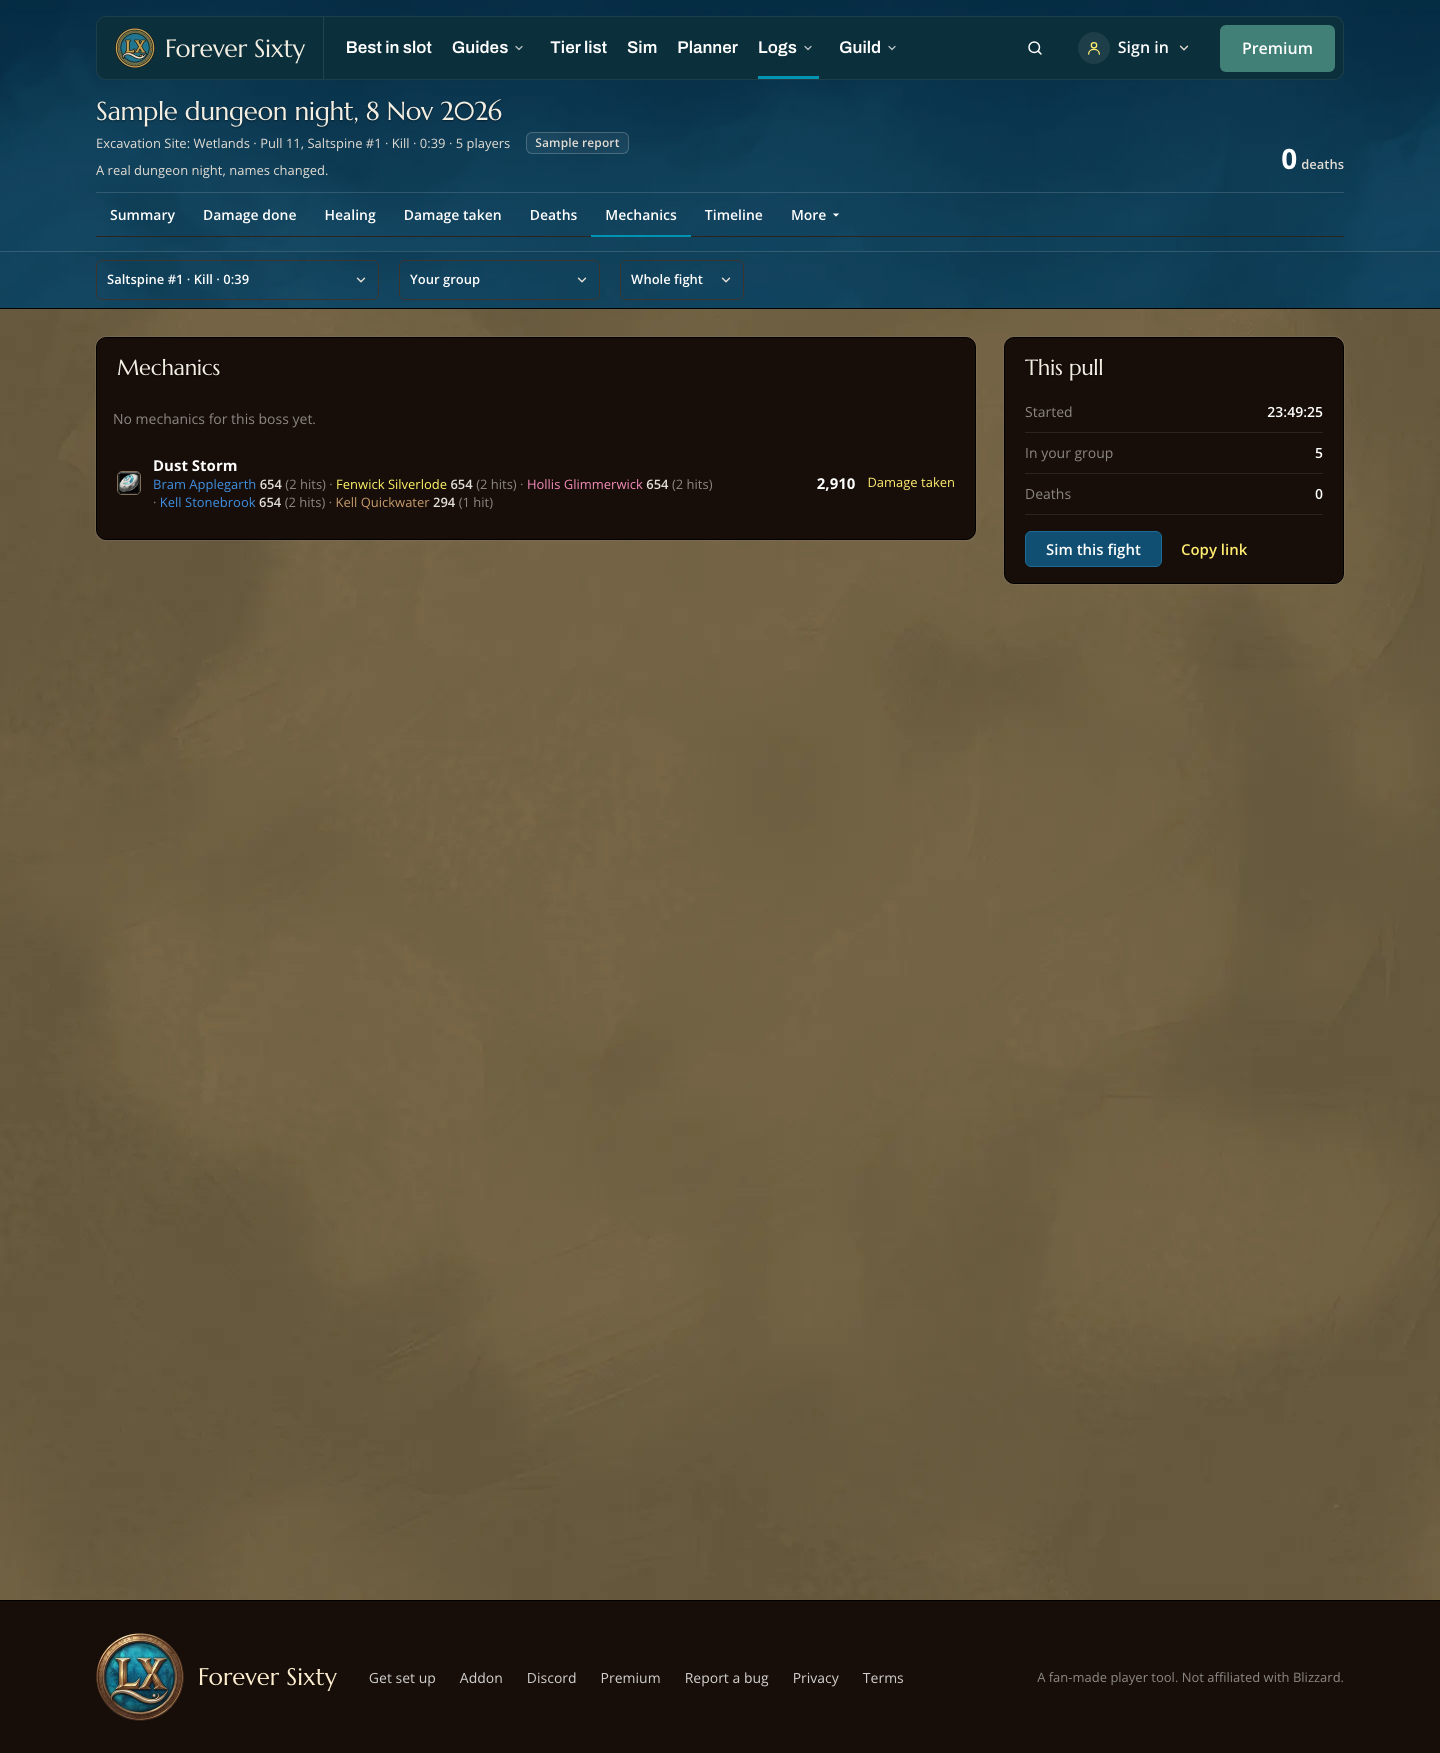
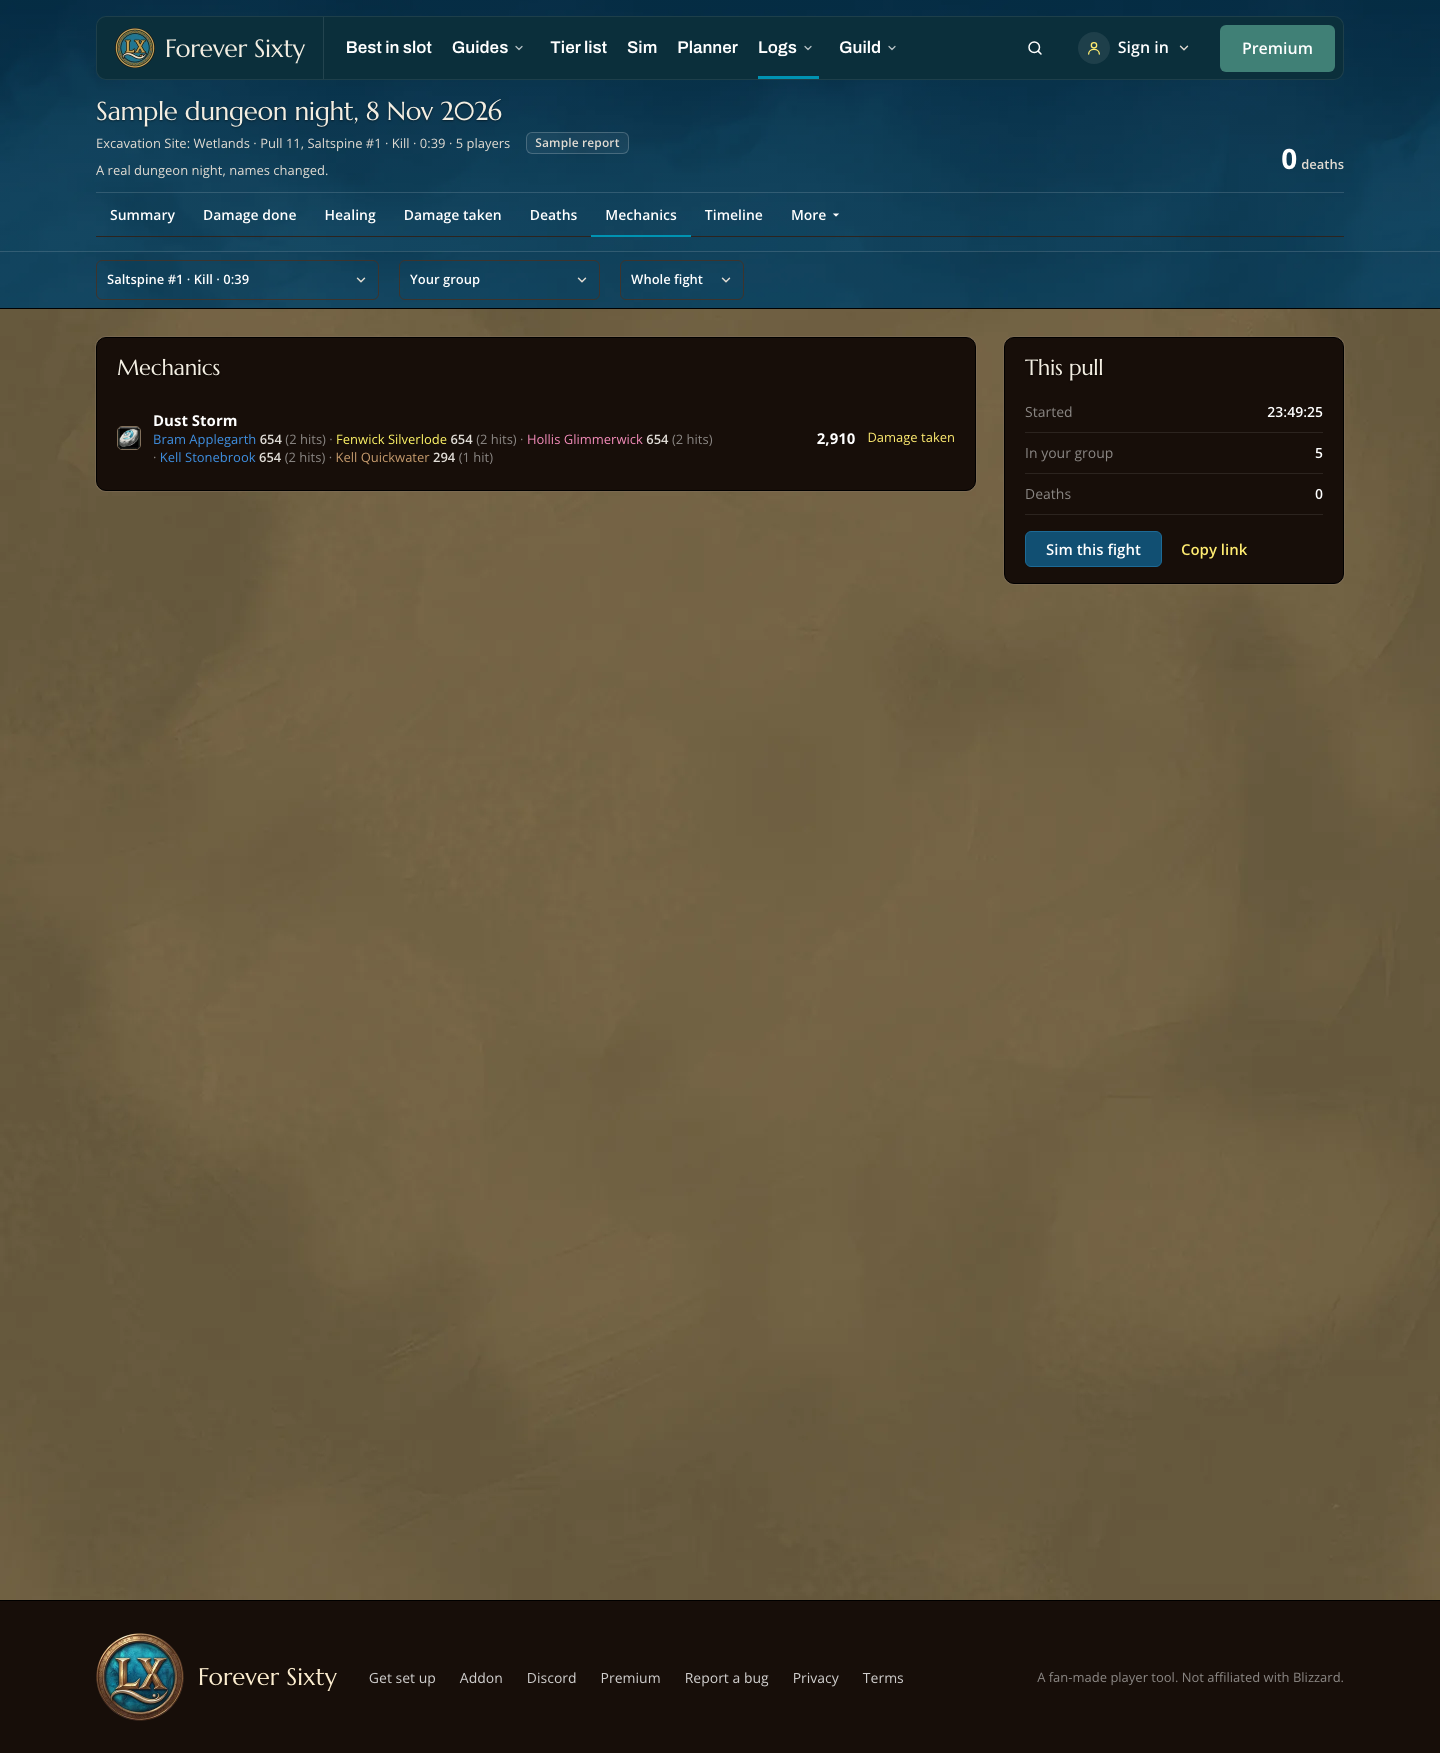
fix(web): round 2 shoulds made musts: Mechanics lists the boss abilities in place of its empty line, the total wraps under them on a phone, timeline names whole at 390
Claude-Session: https://claude.ai/code/session_01Wrtayzxz2jvhjren4pWihn

Changed region(s): [[0.0625, 0.2156, 0.6875, 0.308]]

diff --git a/web/src/components/report/MechanicsMode.svelte b/web/src/components/report/MechanicsMode.svelte
@@ -344,51 +344,49 @@
         )}
       {:else if !block.table_found && nightMode}
         {@render line('No boss of the night has a table yet.', 'mechanics-no-table')}
-      {:else if !block.table_found}
+      {:else if !block.table_found && bossAbilities.length === 0}
         <p class="text-muted px-4 py-4 text-[14px]" data-testid="mechanics-no-table">
           No mechanics for this boss yet.
         </p>
-        {#if !trash && bossAbilities.length > 0}
-          <!-- What the boss's side did to whom, ability by ability, from damage taken. -->
-          <div class="px-5 pb-3" data-testid="mechanics-boss-abilities">
-            {#each bossAbilities as ability (ability.spell_id)}
-              <Row
-                title={unclassifiedNameShared(ability)
-                  ? `${ability.name} #${ability.spell_id}`
-                  : ability.name}
-                open
-                testid={`mechanics-ability-${ability.spell_id}`}
-              >
-                {#snippet lead()}<SpellIcon
-                    url={icons.of(ability.spell_id, ability.name)}
-                    size={24}
-                    tip
-                  />{/snippet}
-                {#snippet subContent()}{#each abilityHitsByPlayer(summary, ability.spell_id) as one, i (one.guid)}{i >
-                    0
-                      ? ' '
-                      : ''}<span class="whitespace-nowrap" data-testid="mechanics-hit"
-                      >{i > 0 ? '· ' : ''}<span style:color={classColorVar(classOf.get(one.guid))}
-                        >{splitUnitName(one.name).name}</span
-                      >
-                      <b class="text-text font-semibold tabular-nums">{formatAmount(one.damage)}</b>
-                      <span class="tabular-nums">({one.hits} {one.hits === 1 ? 'hit' : 'hits'})</span></span
-                    >{/each}{/snippet}
-                {#snippet trail()}
-                  <span class="text-strong text-[15px] leading-5 font-bold tabular-nums"
-                    >{formatAmount(ability.damage)}</span
-                  >
-                  <a
-                    href={hrefFor(damageTakenPatch(ability.spell_id))}
-                    class={linkClass}
-                    aria-label={`Damage Taken for ${ability.name}`}
-                    onclick={(event) => follow(event, damageTakenPatch(ability.spell_id))}>Damage taken</a
-                  >
-                {/snippet}
-              </Row>
-            {/each}
-          </div>
-        {/if}
+      {:else if !block.table_found}
+        <!-- A boss no table covers yet: what its side did to whom, ability by ability, from damage taken. -->
+        <div class="px-5 py-2" data-testid="mechanics-boss-abilities">
+          {#each bossAbilities as ability (ability.spell_id)}
+            <Row
+              title={unclassifiedNameShared(ability) ? `${ability.name} #${ability.spell_id}` : ability.name}
+              open
+              wrapTrail
+              testid={`mechanics-ability-${ability.spell_id}`}
+            >
+              {#snippet lead()}<SpellIcon
+                  url={icons.of(ability.spell_id, ability.name)}
+                  size={24}
+                  tip
+                />{/snippet}
+              {#snippet subContent()}{#each abilityHitsByPlayer(summary, ability.spell_id) as one, i (one.guid)}{i >
+                  0
+                    ? ' '
+                    : ''}<span class="whitespace-nowrap" data-testid="mechanics-hit"
+                    >{i > 0 ? '· ' : ''}<span style:color={classColorVar(classOf.get(one.guid))}
+                      >{splitUnitName(one.name).name}</span
+                    >
+                    <b class="text-text font-semibold tabular-nums">{formatAmount(one.damage)}</b>
+                    <span class="tabular-nums">({one.hits} {one.hits === 1 ? 'hit' : 'hits'})</span></span
+                  >{/each}{/snippet}
+              {#snippet trail()}
+                <span class="text-strong text-[15px] leading-5 font-bold tabular-nums"
+                  >{formatAmount(ability.damage)}</span
+                >
+                <a
+                  href={hrefFor(damageTakenPatch(ability.spell_id))}
+                  class={linkClass}
+                  aria-label={`Damage Taken for ${ability.name}`}
+                  onclick={(event) => follow(event, damageTakenPatch(ability.spell_id))}>Damage taken</a
+                >
+              {/snippet}
+            </Row>
+          {/each}
+        </div>
       {:else if table.length === 0}
         {@render line('Nothing the table lists went wrong.', 'mechanics-table-empty')}
       {:else}

diff --git a/web/src/components/report/TimelinesView.svelte b/web/src/components/report/TimelinesView.svelte
@@ -331,7 +331,7 @@
             <span aria-hidden="true">&nbsp;</span>
           {/if}
         </p>
-        <div class="grid grid-cols-[96px_minmax(0,1fr)] md:grid-cols-[180px_minmax(0,1fr)]">
+        <div class="grid grid-cols-[124px_minmax(0,1fr)] md:grid-cols-[180px_minmax(0,1fr)]">
           <!-- The labels stay put; only the plot scrolls sideways on a phone. -->
           <ul class="flex flex-col pr-3">
             {#each enemyRows as lane (lane.name)}
